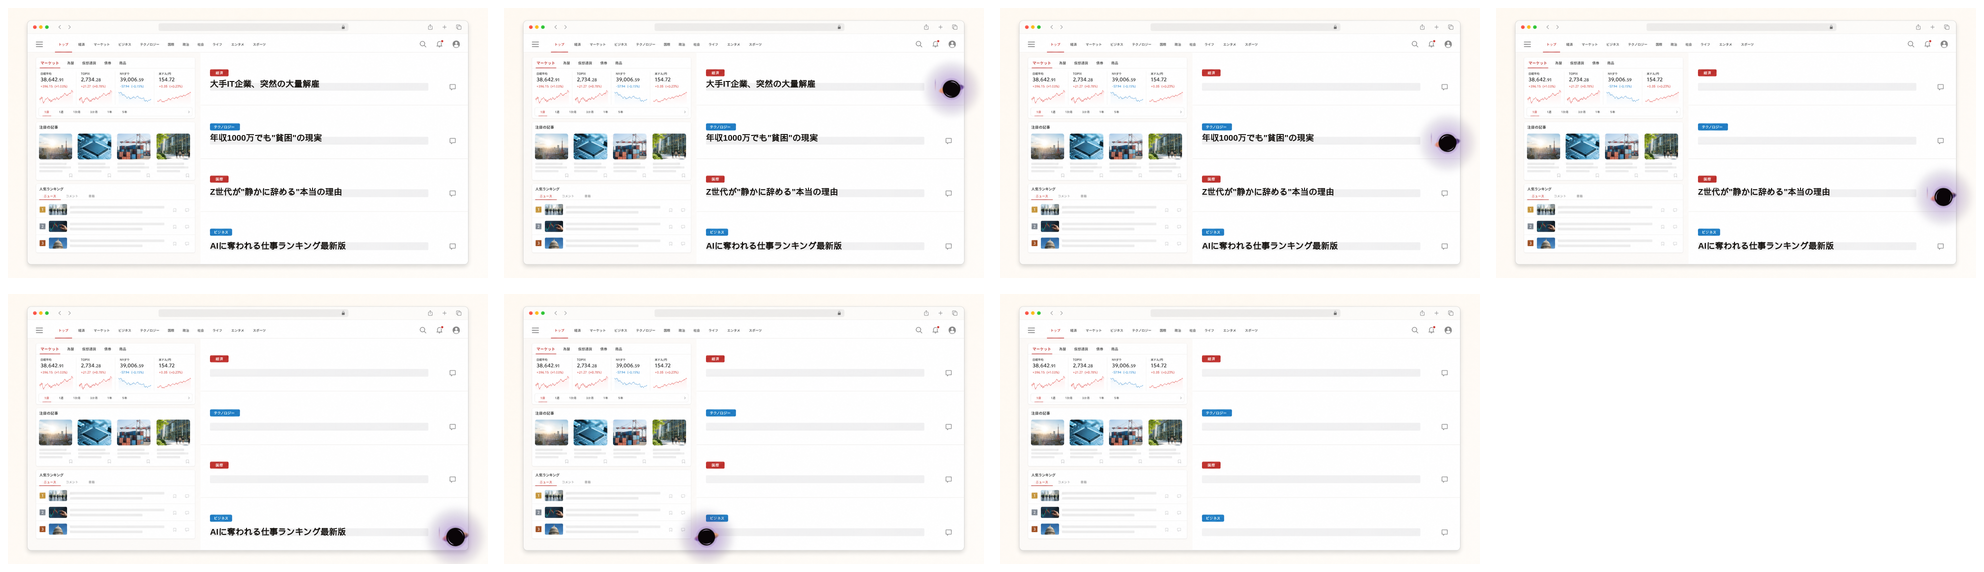
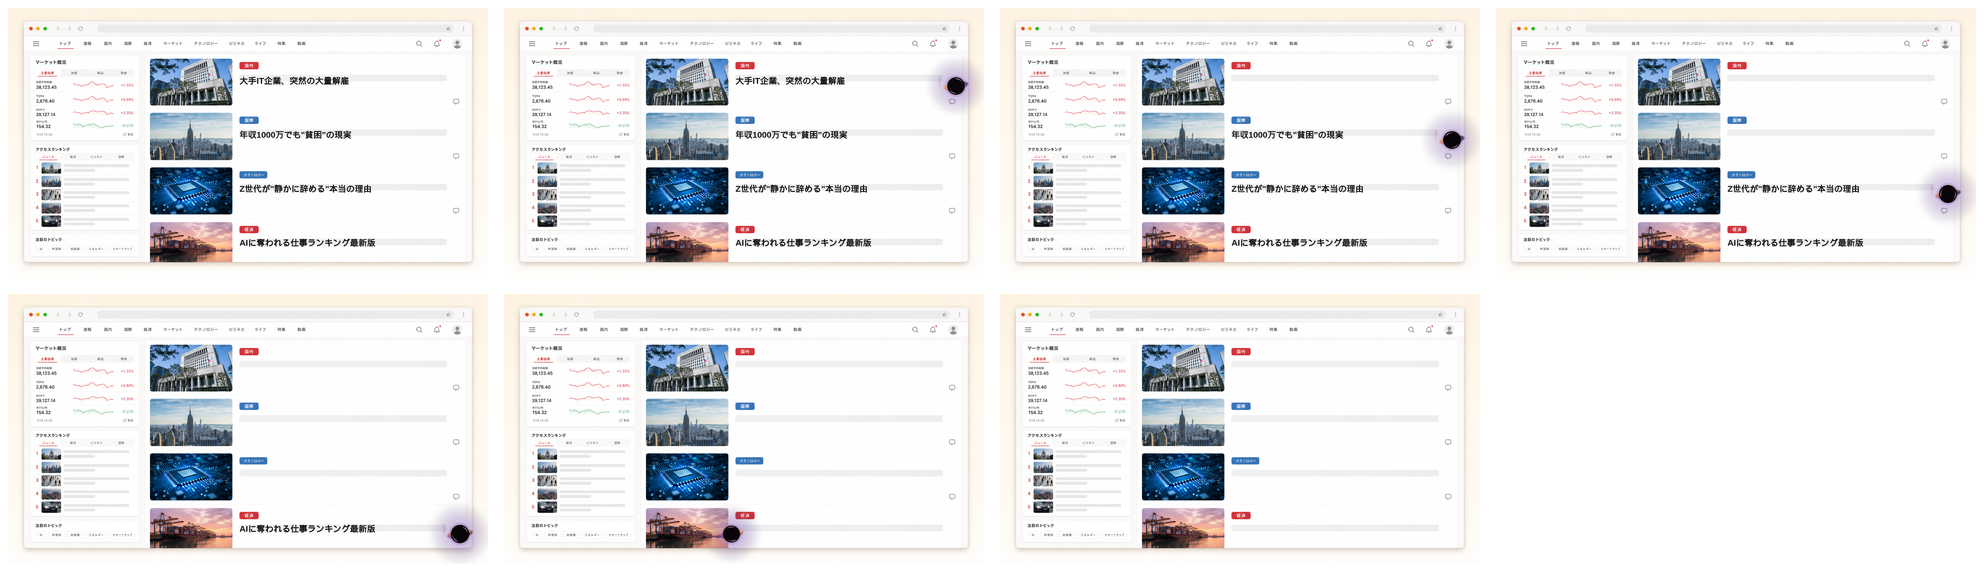
Refine PV news imagery and object absorption

diff --git a/src/compositions/blackhole-pv/scenes/S09GameGrowth.tsx b/src/compositions/blackhole-pv/scenes/S09GameGrowth.tsx
@@ -54,23 +54,23 @@ type Target = {
 };
 
 const targets: Target[] = [
-	{kind: "generated", label: "テキスト断片", src: "mockups/generated/s09-targets/s09-text-fragments.png", start: 6, left: 112, top: 92, width: 286, height: 206, rotate: -5, boost: 0.046},
-	{kind: "generated", label: "通知束", src: "mockups/generated/s09-targets/s09-notification-stack.png", start: 12, left: 458, top: 74, width: 238, height: 238, rotate: 4, boost: 0.046},
-	{kind: "generated", label: "コメント", src: "mockups/generated/s09-targets/s09-social-comments.png", start: 18, left: 782, top: 64, width: 234, height: 178, rotate: -2, boost: 0.04},
-	{kind: "generated", label: "ニュース", src: "mockups/generated/s09-targets/s09-news-card.png", start: 24, left: 1224, top: 74, width: 306, height: 222, rotate: 3, boost: 0.052},
-	{kind: "generated", label: "広告", src: "mockups/generated/s09-targets/s09-ad-popup.png", start: 30, left: 1570, top: 104, width: 226, height: 226, rotate: -4, boost: 0.046},
-	{kind: "generated", label: "ダッシュボード", src: "mockups/generated/s09-targets/s09-dashboard-panels.png", start: 36, left: 84, top: 366, width: 288, height: 206, rotate: 3, boost: 0.05},
-	{kind: "generated", label: "画像グリッド", src: "mockups/generated/s09-targets/s09-image-grid.png", start: 42, left: 420, top: 332, width: 282, height: 224, rotate: -3, boost: 0.047},
-	{kind: "generated", label: "メール", src: "mockups/generated/s09-targets/s09-email-inbox.png", start: 48, left: 1206, top: 344, width: 292, height: 218, rotate: -2, boost: 0.05},
-	{kind: "generated", label: "動画", src: "mockups/generated/s09-targets/s09-video-tile.png", start: 54, left: 1546, top: 402, width: 288, height: 212, rotate: 4, boost: 0.052},
-	{kind: "generated", label: "ブラウザ", src: "mockups/generated/s09-targets/s09-browser-page.png", start: 62, left: 168, top: 642, width: 322, height: 228, rotate: -3, boost: 0.058},
-	{kind: "generated", label: "買い物", src: "mockups/generated/s09-targets/s09-shopping-banner.png", start: 70, left: 556, top: 666, width: 250, height: 250, rotate: 5, boost: 0.05},
-	{kind: "generated", label: "ニュース2", src: "mockups/generated/s09-targets/s09-news-card.png", start: 78, left: 1104, top: 648, width: 278, height: 204, rotate: -5, boost: 0.05},
-	{kind: "generated", label: "通知2", src: "mockups/generated/s09-targets/s09-notification-stack.png", start: 86, left: 1476, top: 690, width: 228, height: 228, rotate: 3, boost: 0.046},
-	{kind: "generated", label: "コメント2", src: "mockups/generated/s09-targets/s09-social-comments.png", start: 94, left: 880, top: 258, width: 230, height: 172, rotate: 3, boost: 0.04},
-	{kind: "generated", label: "画像2", src: "mockups/generated/s09-targets/s09-image-grid.png", start: 102, left: 684, top: 404, width: 220, height: 174, rotate: -5, boost: 0.042},
-	{kind: "generated", label: "広告2", src: "mockups/generated/s09-targets/s09-ad-popup.png", start: 110, left: 1018, top: 452, width: 210, height: 210, rotate: 4, boost: 0.044},
-	{kind: "generated", label: "ページ全体", src: "mockups/generated/s09-targets/s09-browser-page.png", start: 124, left: 610, top: 250, width: 700, height: 454, rotate: 0, boost: 0.16},
+	{kind: "generated", label: "テキスト断片", src: "mockups/generated/s09-objects/text-lines.png", start: 6, left: 146, top: 118, width: 308, height: 196, rotate: -5, boost: 0.034},
+	{kind: "generated", label: "写真サムネ", src: "mockups/generated/s09-objects/photo-thumb.png", start: 12, left: 544, top: 78, width: 236, height: 242, rotate: 4, boost: 0.04},
+	{kind: "generated", label: "通知", src: "mockups/generated/s09-objects/notification-toast.png", start: 18, left: 830, top: 92, width: 278, height: 126, rotate: -2, boost: 0.034},
+	{kind: "generated", label: "コメント", src: "mockups/generated/s09-objects/comment-row.png", start: 24, left: 1268, top: 112, width: 294, height: 132, rotate: 3, boost: 0.034},
+	{kind: "generated", label: "バナー", src: "mockups/generated/s09-objects/banner-ad.png", start: 30, left: 1514, top: 246, width: 304, height: 178, rotate: -4, boost: 0.042},
+	{kind: "generated", label: "動画", src: "mockups/generated/s09-objects/video-card.png", start: 36, left: 108, top: 392, width: 308, height: 232, rotate: 3, boost: 0.046},
+	{kind: "generated", label: "チャート", src: "mockups/generated/s09-objects/chart-widget.png", start: 42, left: 470, top: 348, width: 312, height: 178, rotate: -3, boost: 0.04},
+	{kind: "generated", label: "ポップアップ", src: "mockups/generated/s09-objects/popup-modal.png", start: 48, left: 1282, top: 404, width: 236, height: 274, rotate: -2, boost: 0.045},
+	{kind: "generated", label: "検索結果", src: "mockups/generated/s09-objects/search-result.png", start: 54, left: 1546, top: 534, width: 316, height: 142, rotate: 4, boost: 0.034},
+	{kind: "generated", label: "画像グリッド", src: "mockups/generated/s09-objects/image-grid-piece.png", start: 62, left: 164, top: 704, width: 232, height: 232, rotate: -3, boost: 0.038},
+	{kind: "generated", label: "吹き出し", src: "mockups/generated/s09-objects/message-bubble.png", start: 70, left: 484, top: 678, width: 312, height: 150, rotate: 5, boost: 0.034},
+	{kind: "generated", label: "価格カード", src: "mockups/generated/s09-objects/price-card.png", start: 78, left: 1112, top: 704, width: 214, height: 284, rotate: -5, boost: 0.042},
+	{kind: "generated", label: "通知2", src: "mockups/generated/s09-objects/notification-toast.png", start: 86, left: 1456, top: 754, width: 286, height: 130, rotate: 3, boost: 0.032},
+	{kind: "generated", label: "テキスト2", src: "mockups/generated/s09-objects/text-lines.png", start: 94, left: 870, top: 246, width: 250, height: 162, rotate: 3, boost: 0.032},
+	{kind: "generated", label: "写真2", src: "mockups/generated/s09-objects/photo-thumb.png", start: 102, left: 742, top: 514, width: 214, height: 220, rotate: -5, boost: 0.036},
+	{kind: "generated", label: "コメント2", src: "mockups/generated/s09-objects/comment-row.png", start: 110, left: 1016, top: 494, width: 260, height: 118, rotate: 4, boost: 0.032},
+	{kind: "generated", label: "バナー2", src: "mockups/generated/s09-objects/banner-ad.png", start: 124, left: 738, top: 292, width: 424, height: 246, rotate: 0, boost: 0.09},
 	{kind: "noise", label: "画面のノイズ全部", start: 158, left: 0, top: 0, width: 1920, height: 1080, rotate: 0, boost: 0.24},
 ];
 
@@ -109,27 +109,16 @@ const PillLabel: React.FC<{children: React.ReactNode; tone?: "light" | "dark"}> 
 const TargetContent: React.FC<{target: Target}> = ({target}) => {
 	if (target.src) {
 		return (
-			<div
+			<Img
+				src={staticFile(target.src)}
 				style={{
 					width: "100%",
 					height: "100%",
-					borderRadius: 22,
-					background: "rgba(255,255,255,0.78)",
-					boxShadow: "0 28px 74px rgba(36,26,18,0.18)",
-					border: "1px solid rgba(23,19,22,0.06)",
-					overflow: "hidden",
+					objectFit: "contain",
+					display: "block",
+					filter: "drop-shadow(0 24px 44px rgba(36,26,18,0.16))",
 				}}
-			>
-				<Img
-					src={staticFile(target.src)}
-					style={{
-						width: "100%",
-						height: "100%",
-						objectFit: "cover",
-						display: "block",
-					}}
-				/>
-			</div>
+			/>
 		);
 	}
 

diff --git a/src/compositions/blackhole-pv/scenes/S08News.tsx b/src/compositions/blackhole-pv/scenes/S08News.tsx
@@ -12,9 +12,9 @@ import {FONTS} from "../constants";
 import {usePvCurrentFrame as useCurrentFrame, usePvVideoConfig as useVideoConfig} from "../timing";
 
 const ink = "#15120f";
-const FEATURE_LEFT = 808;
-const FEATURE_TOP = 280;
-const FEATURE_WIDTH = 920;
+const FEATURE_LEFT = 926;
+const FEATURE_TOP = 268;
+const FEATURE_WIDTH = 820;
 const FEATURE_ROW_GAP = 216;
 
 const clamp = {

diff --git a/tasks/finish-blackhole-pv/plan.md b/tasks/finish-blackhole-pv/plan.md
@@ -687,3 +687,32 @@ npm run studio:pv
 - S08確認シート: `tasks/finish-blackhole-pv/frame-review/latest/s08-contact.png`。
 - S09確認シート: `tasks/finish-blackhole-pv/frame-review/latest/s09-contact.png`。
 - Remotion Studio を `http://localhost:3001` で再起動した。
+
+## 2026-05-11 S08画像 / S09オブジェクト単位修正
+
+### 方針
+
+- S08 はニュース画像が見える行構成にする。右側の主ニュース行にサムネイル画像を入れ、その横に Remotion の見出しを乗せる。
+- S09 は Webページやカード全体ではなく、テキスト片・画像・通知・コメント・バナーなどの単体オブジェクトを吸う。
+- S09 の単体オブジェクトは gpt-image-2 でクロマキー背景つき生成後、透過PNG化して使う。
+- 生成素材の透明余白が大きい場合はトリミングし、画面上で素材が小さく見えないようにする。
+
+### Todo
+
+- [x] S08 のニュース背景を、右側行に画像がある構成で再生成する。
+- [x] S08 の見出し位置を画像横のテキストレーンに合わせる。
+- [x] S09 の単体オブジェクト素材を gpt-image-2 で生成する。
+- [x] S09 の単体オブジェクト素材を透過PNG化し、余白をトリミングする。
+- [x] S09 のターゲットを `s09-objects` 参照に差し替える。
+- [x] 旧 `s09-targets` のWebページ/カード系素材を削除する。
+- [x] `npm run typecheck` を通す。
+- [x] S08/S09 の contact sheet を再作成して確認する。
+- [x] Studio を再起動する。
+- [ ] commit / push する。
+
+### Review
+
+- S08 は `tasks/finish-blackhole-pv/frame-review/latest/s08-contact.png` で、ニュース画像つきの行と見出しの関係を確認した。
+- S09 は `tasks/finish-blackhole-pv/frame-review/latest/s09-contact.png` で、単体オブジェクトが複数吸われる構成を確認した。
+- S09 生成素材一覧は `tasks/finish-blackhole-pv/generated-prompts/s09-object-assets-contact.png`。
+- Remotion Studio を `http://localhost:3001` で再起動した。

diff --git a/tasks/finish-blackhole-pv/research.md b/tasks/finish-blackhole-pv/research.md
@@ -353,3 +353,10 @@ The finished state should satisfy:
 - S08 背景を `public/mockups/generated/news-site-headline-lanes.png` として再生成した。右側は4本の空見出しレーンがあり、Remotion の Axis Std 見出しを置きやすい構造。
 - S09 用に `public/mockups/generated/s09-targets/s09-*.png` の吸収ターゲット画像を11枚生成した。
 - S09 はCSSカード中心ではなく、生成画像素材を複数配置して中央BHへ吸い込ませる構成に変更した。
+
+追加レビュー:
+
+- S08 はニュース画像がないように見えるという指摘があった。原因は右側の主見出しレーンが文字プレースホルダー中心で、ニュース記事の画像と見出しの関係が弱かったこと。
+- S08 背景を再生成し、右側の各ニュース行にサムネイル画像を入れた。Remotion 見出しはその画像の右側へ重ねる位置に変更した。
+- S09 は「Webページを1枚単位で吸う」見え方が残っていた。`s09-targets` のページ/カード画像を削除し、`s09-objects` としてテキスト片、写真サムネ、通知、コメント、バナー、動画カード、チャート、ポップアップ、検索結果、画像グリッド、吹き出し、価格カードの単体オブジェクトを生成した。
+- `s09-objects` は gpt-image-2 でクロマキー背景として生成後、`remove_chroma_key.py` で透過PNG化し、ImageMagick の `-trim` で透明余白を詰めた。

diff --git a/tasks/lessons.md b/tasks/lessons.md
@@ -16,3 +16,4 @@
 - ユーザーが「画像を活かしたまま」「文字を溶け込ませる」と言った場合、生成画像を捨ててCSSで作り直す前に、既存画像の余白・レーン・質感へoverlay文字を合わせる。貼り紙状の下地は最小化する。
 - S09のような成長演出では、全画面ノイズを不透明に出すと「崩壊」に見えやすい。終盤はノイズ幕ではなくBH自体の拡大で画面を覆う。
 - 「画像とテキストの関係が悪い」と指摘されたら、overlay位置だけで粘らず、画像側を“テキストを受けるための構図”として再生成する。S08なら空の見出しレーン、S09なら吸収対象そのものを画像素材化する。
+- ユーザーが「オブジェクト単位で吸ってほしい」と言った場合、Webページ全体や大きなカード画像を素材にしない。テキスト片、サムネ、通知、コメント、バナーなどを個別透過PNGとして生成し、それぞれを独立した吸収ターゲットにする。